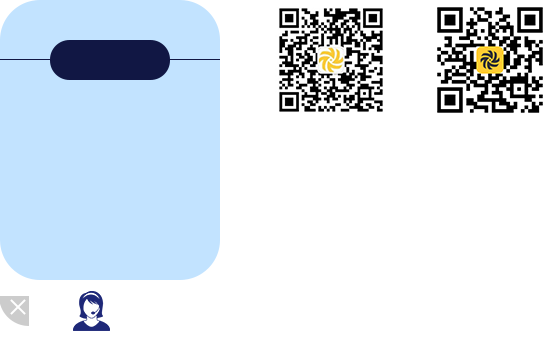
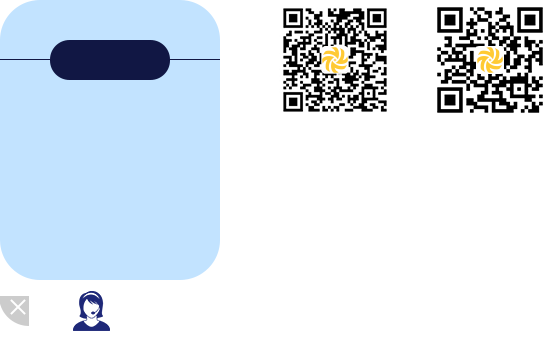
1、更换资讯图片 2、修改微信支付样式

Changed region(s): [[0.4945, 0.0, 0.7109, 0.3429], [0.8655, 0.1143, 0.9273, 0.2286]]

diff --git a/tzdr-web/src/main/webapp/topic/css/vsInformation.css b/tzdr-web/src/main/webapp/topic/css/vsInformation.css
@@ -9,7 +9,7 @@
 .information-concern {background: #c2e3ff; width: 100%; height: 240px;}
 .information-concern .concern-center {width: 1000px; margin: 0 auto; height: 240px; text-align: center;}
 .information-concern .concern-center ul {float: left; width: 250px; height: 240px; text-align: center; color: #1e2878; font-size: 16px;}
-.information-concern .concern-center .weixin {background: url("../images/information-icon.png") -271px 0px; width: 120px; height: 120px; margin-left: 65px; margin-top: 50px;}
+.information-concern .concern-center .weixin {background: url("../images/information-icon.png") -275px 0px; width: 120px; height: 120px; margin-left: 65px; margin-top: 50px;}
 .information-concern .concern-center .app {background: url("../images/information-icon.png") -430px 0px; width: 120px; height: 120px; margin-left: 65px; margin-top: 50px;}
 .information-concern .concern-center .furx {font-size: 20px; margin-top: 50px;}
 .information-concern .concern-center ul li {margin-bottom: 15px;}
